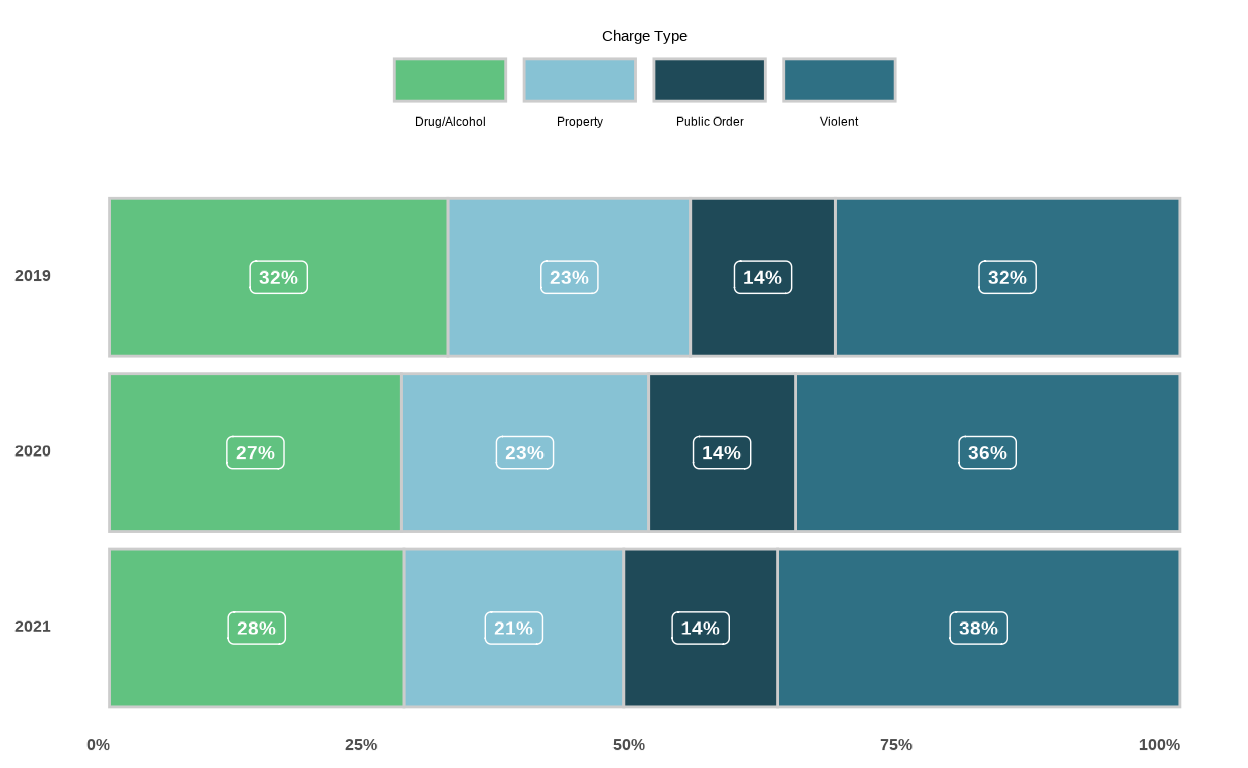
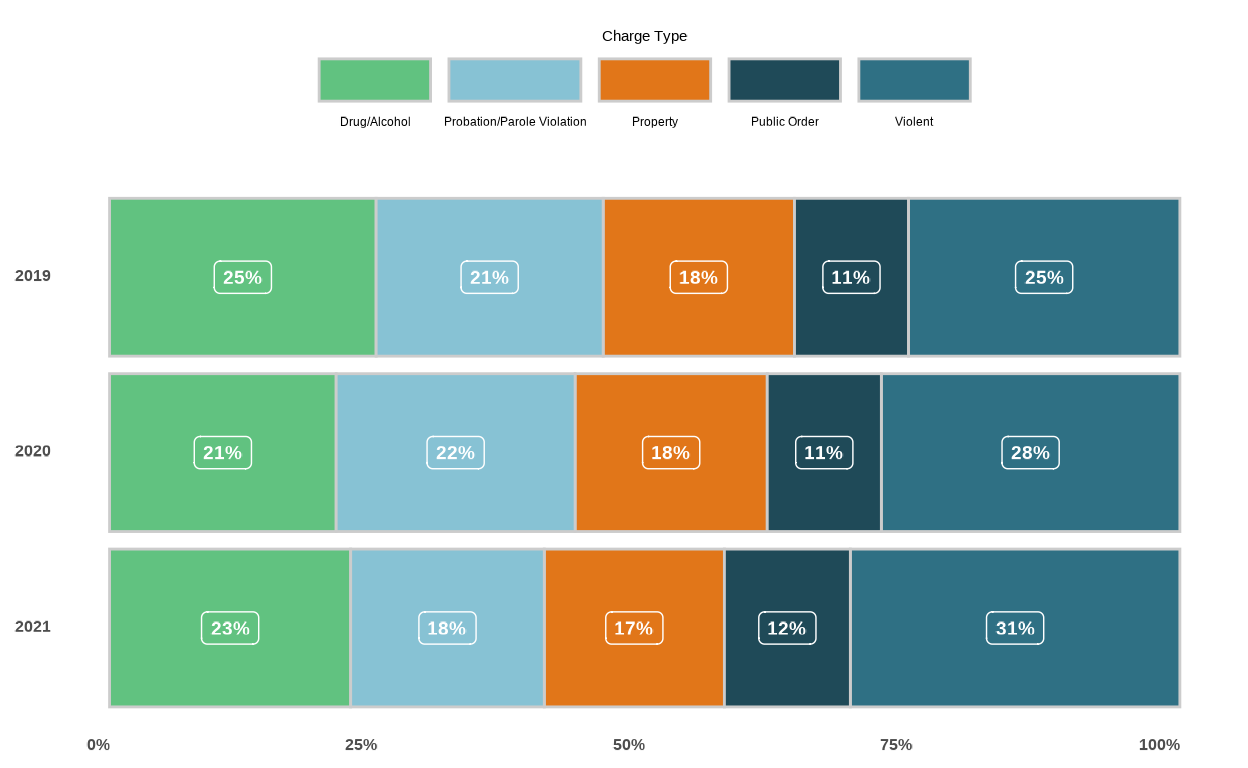
updated preliminary visuals for charge html output

diff --git a/_site/nh_charge_type_analysis.html b/_site/nh_charge_type_analysis.html
@@ -2514,6 +2514,10 @@ across State (Non-PC Holds Only)</a></li>
 over Time (Non-PC Holds Only)</a></li>
 <li><a href="#charge-type-by-jail-non-pc-holds-only-bar-plot">Charge
 Type by Jail (Non-PC Holds Only), Bar Plot</a></li>
+<li><a
+href="#charge-type-by-high-utilizer-grouping-non-pc-holds-only-bar-plot-based-on-all-three-years-of-data">Charge
+Type by High Utilizer Grouping (Non-PC Holds Only), Bar Plot (based on
+all three years of data)</a></li>
 <li><a href="#drugalcohol-charges-by-jail-non-pc-holds-only-map">%
 Drug/Alcohol Charges by Jail (Non-PC Holds Only), Map</a></li>
 <li><a href="#public-order-charges-by-jail-non-pc-holds-only-map">%
@@ -5658,8 +5662,7 @@ State (Non-PC Holds Only)</h3>
 <h3 id="charge-type-over-time-non-pc-holds-only-1">Charge Type over Time
 (Non-PC Holds Only)</h3>
 <p>Note: These booking frequencies by charge type are grouped by fiscal
-year of booking and exclude both probation/parole charges as well as
-unclassified charges (i.e., “other”)</p>
+year of booking and exclude unclassified charges (i.e., “other”)</p>
 <div class="layout-chunk" data-layout="l-body-outset">
 <p><img src="nh_charge_type_analysis_files/figure-html5/unnamed-chunk-16-1.png" width="624" /></p>
 </div>
@@ -5667,10 +5670,37 @@ unclassified charges (i.e., “other”)</p>
 <h3 id="charge-type-by-jail-non-pc-holds-only-bar-plot">Charge Type by
 Jail (Non-PC Holds Only), Bar Plot</h3>
 <p>Note: These booking frequencies by charge type are grouped by county
-of booking and exclude both probation/parole charges as well as
-unclassified charges (i.e., “other”)</p>
+of booking and exclude unclassified charges (i.e., “other”)</p>
 <div class="layout-chunk" data-layout="l-body-outset">
 <p><img src="nh_charge_type_analysis_files/figure-html5/unnamed-chunk-17-1.png" width="624" /></p>
+</div>
+<p><br><br></p>
+<h3
+id="charge-type-by-high-utilizer-grouping-non-pc-holds-only-bar-plot-based-on-all-three-years-of-data">Charge
+Type by High Utilizer Grouping (Non-PC Holds Only), Bar Plot (based on
+all three years of data)</h3>
+<p>Note: This output excludes charge type analysis for PC bookings, as
+no charge information exists, but the high utilizer percentile grouping
+(developed by Mari) does include PC bookings – does this make sense?</p>
+<p>Below is the preliminary grouping I am using to confirm with the
+team. With this approach, this is not overlap of groups – one individual
+is in one of the four groups (i.e., someone in the top 1% of jail
+entrances is only included in the 1% grouping, not the 5% and 10%
+grouping). I’m thinking that this may help us better see any differences
+between groupings of high utilizers, if they exist. Open to suggestions,
+though!</p>
+<ul>
+<li><p><strong>Top 1%:</strong> individual is in top 1% of jail
+entrances for all 3 years of sample</p></li>
+<li><p><strong>Top 5%:</strong> individual is in top 5% of jail
+entrances for all 3 years of sample (really this is 1% to 5%)</p></li>
+<li><p><strong>Top 10%:</strong> individual is in top 10% of jail
+entrances for all 3 years of sample (really this is 5% to 10%)</p></li>
+<li><p><strong>Non-HU:</strong> individual is not in top 10% of jail
+entrances for all 3 years of sample</p></li>
+</ul>
+<div class="layout-chunk" data-layout="l-body-outset">
+<p><img src="nh_charge_type_analysis_files/figure-html5/unnamed-chunk-18-1.png" width="624" /></p>
 </div>
 <p><br><br></p>
 <h3 id="drugalcohol-charges-by-jail-non-pc-holds-only-map">%
@@ -5681,7 +5711,7 @@ probation/parole charges as well as unclassified charges (i.e., “other”)
 unlike the prior two visuals. This map highlights county-level variation
 but grouping counties into four equally sized groups or quartiles.</p>
 <div class="layout-chunk" data-layout="l-body-outset">
-<p><img src="nh_charge_type_analysis_files/figure-html5/unnamed-chunk-21-1.png" width="624" /></p>
+<p><img src="nh_charge_type_analysis_files/figure-html5/unnamed-chunk-22-1.png" width="624" /></p>
 </div>
 <p><br><br></p>
 <h3 id="public-order-charges-by-jail-non-pc-holds-only-map">% Public
@@ -5692,7 +5722,7 @@ probation/parole charges as well as unclassified charges (i.e., “other”)
 unlike the prior two visuals. This map highlights county-level variation
 but grouping counties into four equally sized groups or quartiles.</p>
 <div class="layout-chunk" data-layout="l-body-outset">
-<p><img src="nh_charge_type_analysis_files/figure-html5/unnamed-chunk-22-1.png" width="624" /></p>
+<p><img src="nh_charge_type_analysis_files/figure-html5/unnamed-chunk-23-1.png" width="624" /></p>
 </div>
 <p><br><br></p>
 <div class="sourceCode" id="cb1"><pre
